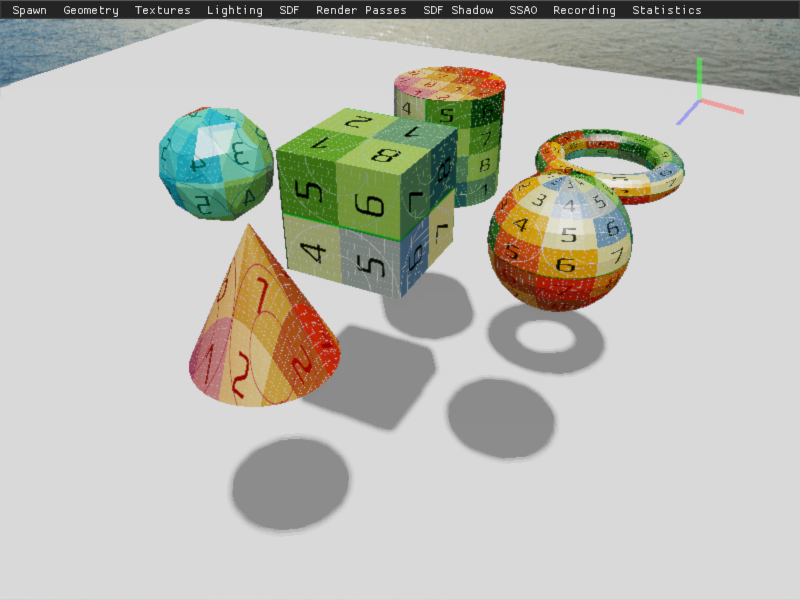
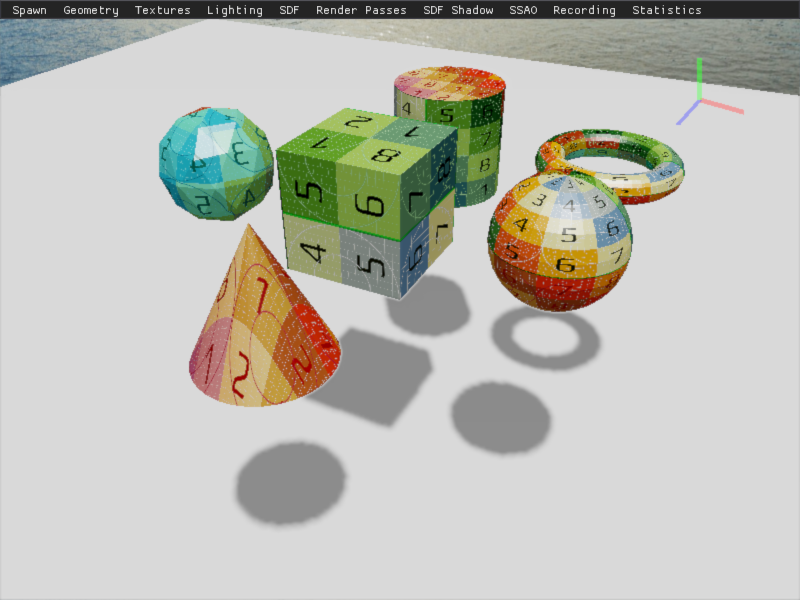
Fixed shadow blurring

diff --git a/cannon/graphics/deferred_renderer.cpp b/cannon/graphics/deferred_renderer.cpp
@@ -73,18 +73,18 @@ void DeferredRenderer::setup_render_passes() {
             viewer.draw_sdf_geom(sdf_geom_program_);
       });
 
-    shadow_program_ = std::make_shared<ShaderProgram>("shadow_shader");
-    shadow_program_->attach_vertex_shader("shaders/mvp_normals_tex.vert");
-    shadow_program_->attach_fragment_shader("shaders/empty.frag");
-    shadow_program_->link();
+    shadow_depth_program_ = std::make_shared<ShaderProgram>("shadow_depth_shader");
+    shadow_depth_program_->attach_vertex_shader("shaders/mvp_normals_tex.vert");
+    shadow_depth_program_->attach_fragment_shader("shaders/empty.frag");
+    shadow_depth_program_->link();
 
-    sdf_shadow_program_ = std::make_shared<ShaderProgram>("sdf_shadow_shader");
-    sdf_shadow_program_->attach_vertex_shader("shaders/sdf.vert");
+    sdf_shadow_depth_program_ = std::make_shared<ShaderProgram>("sdf_shadow_depth_shader");
+    sdf_shadow_depth_program_->attach_vertex_shader("shaders/sdf.vert");
     std::vector<std::string> shadow_libs = {"shaders/libs/sdf.glsl"};
-    sdf_shadow_program_->attach_fragment_shader("shaders/sdf_shadow.frag", shadow_libs);
-    sdf_shadow_program_->link();
+    sdf_shadow_depth_program_->attach_fragment_shader("shaders/sdf_shadow.frag", shadow_libs);
+    sdf_shadow_depth_program_->link();
 
-    shadow_fb_ = viewer.add_render_pass("shadow", shadow_program_, [this](){
+    shadow_depth_fb_ = viewer.add_render_pass("shadow depth", shadow_depth_program_, [this](){
         glClearColor(0.0, 0.0, 0.0, 1.0);
         glClear(GL_COLOR_BUFFER_BIT | GL_DEPTH_BUFFER_BIT | GL_STENCIL_BUFFER_BIT);
 
@@ -102,18 +102,18 @@ void DeferredRenderer::setup_render_passes() {
                    c_pos[1],
                    c_pos[2],
                    1.0;
-        shadow_program_->set_uniform("viewPos", tmp_pos);
-        sdf_shadow_program_->set_uniform("viewPos", tmp_pos);
+        shadow_depth_program_->set_uniform("viewPos", tmp_pos);
+        sdf_shadow_depth_program_->set_uniform("viewPos", tmp_pos);
 
-        shadow_fb_->color_attachments[0]->set_wrap_clamp_border();
+        shadow_depth_fb_->color_attachments[0]->set_wrap_clamp_border();
         float borderColor[] = {1.0, 1.0, 1.0, 1.0};
-        shadow_fb_->color_attachments[0]->bind();
+        shadow_depth_fb_->color_attachments[0]->bind();
         glTexParameterfv(GL_TEXTURE_2D, GL_TEXTURE_BORDER_COLOR, borderColor);
 
-        viewer.draw_scene_geom(shadow_program_, false, true);
+        viewer.draw_scene_geom(shadow_depth_program_, false, true);
 
-        sdf_shadow_program_->activate();
-        sdf_shadow_program_->set_uniform("time", (float)glfwGetTime());
+        sdf_shadow_depth_program_->activate();
+        sdf_shadow_depth_program_->set_uniform("time", (float)glfwGetTime());
         static int max_march_steps = 255;
         if (ImGui::BeginMainMenuBar()) {
           if (ImGui::BeginMenu("SDF Shadow")) {
@@ -122,10 +122,45 @@ void DeferredRenderer::setup_render_passes() {
           }
           ImGui::EndMainMenuBar();
         }
-        sdf_shadow_program_->set_uniform("max_march_steps", max_march_steps);
-        viewer.draw_sdf_geom(sdf_shadow_program_, true);
+        sdf_shadow_depth_program_->set_uniform("max_march_steps", max_march_steps);
+        viewer.draw_sdf_geom(sdf_shadow_depth_program_, true);
         
         viewer.c = c_backup;
+      });
+
+  shadow_program_ = std::make_shared<ShaderProgram>("shadow_shader");
+  shadow_program_->attach_vertex_shader("shaders/pass_pos_tex.vert");
+  shadow_program_->attach_fragment_shader("shaders/shadow.frag");
+  shadow_program_->link();
+
+  shadow_fb_ = viewer.add_render_pass("shadow", shadow_program_, [this]() {
+        glClearColor(0.0, 0.0, 0.0, 1.0);
+        glClear(GL_COLOR_BUFFER_BIT | GL_DEPTH_BUFFER_BIT | GL_STENCIL_BUFFER_BIT);
+
+        shadow_fb_->color_attachments[0]->set_wrap_clamp_border();
+        float borderColor[] = {1.0, 1.0, 1.0, 1.0};
+        shadow_fb_->color_attachments[0]->bind();
+        glTexParameterfv(GL_TEXTURE_2D, GL_TEXTURE_BORDER_COLOR, borderColor);
+
+        // TODO Set uniforms necessary to compute shadow buffer
+        // gPosition, gNormal, shadowDepth
+        
+        shadow_program_->set_uniform("lightSpaceMatrix", light_space_mat_);
+
+        shadow_program_->set_uniform("gPosition", 0);
+        shadow_program_->set_uniform("gNormal", 1);
+        shadow_program_->set_uniform("shadowMap", 2);
+
+        viewer.apply_light_collection(shadow_program_);
+
+        std::vector<std::shared_ptr<Texture>> shadow_attachments;
+        shadow_attachments.push_back(gbuffer_fb_->color_attachments[0]);
+        shadow_attachments.push_back(gbuffer_fb_->color_attachments[1]);
+        shadow_attachments.push_back(shadow_depth_fb_->color_attachments[0]);
+
+        shadow_depth_fb_->bind_read();
+        shadow_fb_->bind_draw();
+        shadow_depth_fb_->quad->draw(shadow_program_, shadow_attachments);
       });
 
   shadow_blur_program_ = std::make_shared<ShaderProgram>("shadow_blur_shader");

diff --git a/cannon/graphics/deferred_renderer.hpp b/cannon/graphics/deferred_renderer.hpp
@@ -28,8 +28,9 @@ namespace cannon {
       private:
         std::shared_ptr<ShaderProgram> gbuf_program_;
         std::shared_ptr<ShaderProgram> sdf_geom_program_;
+        std::shared_ptr<ShaderProgram> shadow_depth_program_;
+        std::shared_ptr<ShaderProgram> sdf_shadow_depth_program_;
         std::shared_ptr<ShaderProgram> shadow_program_;
-        std::shared_ptr<ShaderProgram> sdf_shadow_program_;
         std::shared_ptr<ShaderProgram> shadow_blur_program_;
         std::shared_ptr<ShaderProgram> ssao_program_;
         std::shared_ptr<ShaderProgram> ssao_blur_program_;
@@ -39,6 +40,7 @@ namespace cannon {
         std::shared_ptr<ShaderProgram> axes_program_;
 
         std::shared_ptr<Framebuffer> gbuffer_fb_;
+        std::shared_ptr<Framebuffer> shadow_depth_fb_;
         std::shared_ptr<Framebuffer> shadow_fb_;
         std::shared_ptr<Framebuffer> shadow_blur_1_fb_;
         std::shared_ptr<Framebuffer> shadow_blur_2_fb_;
